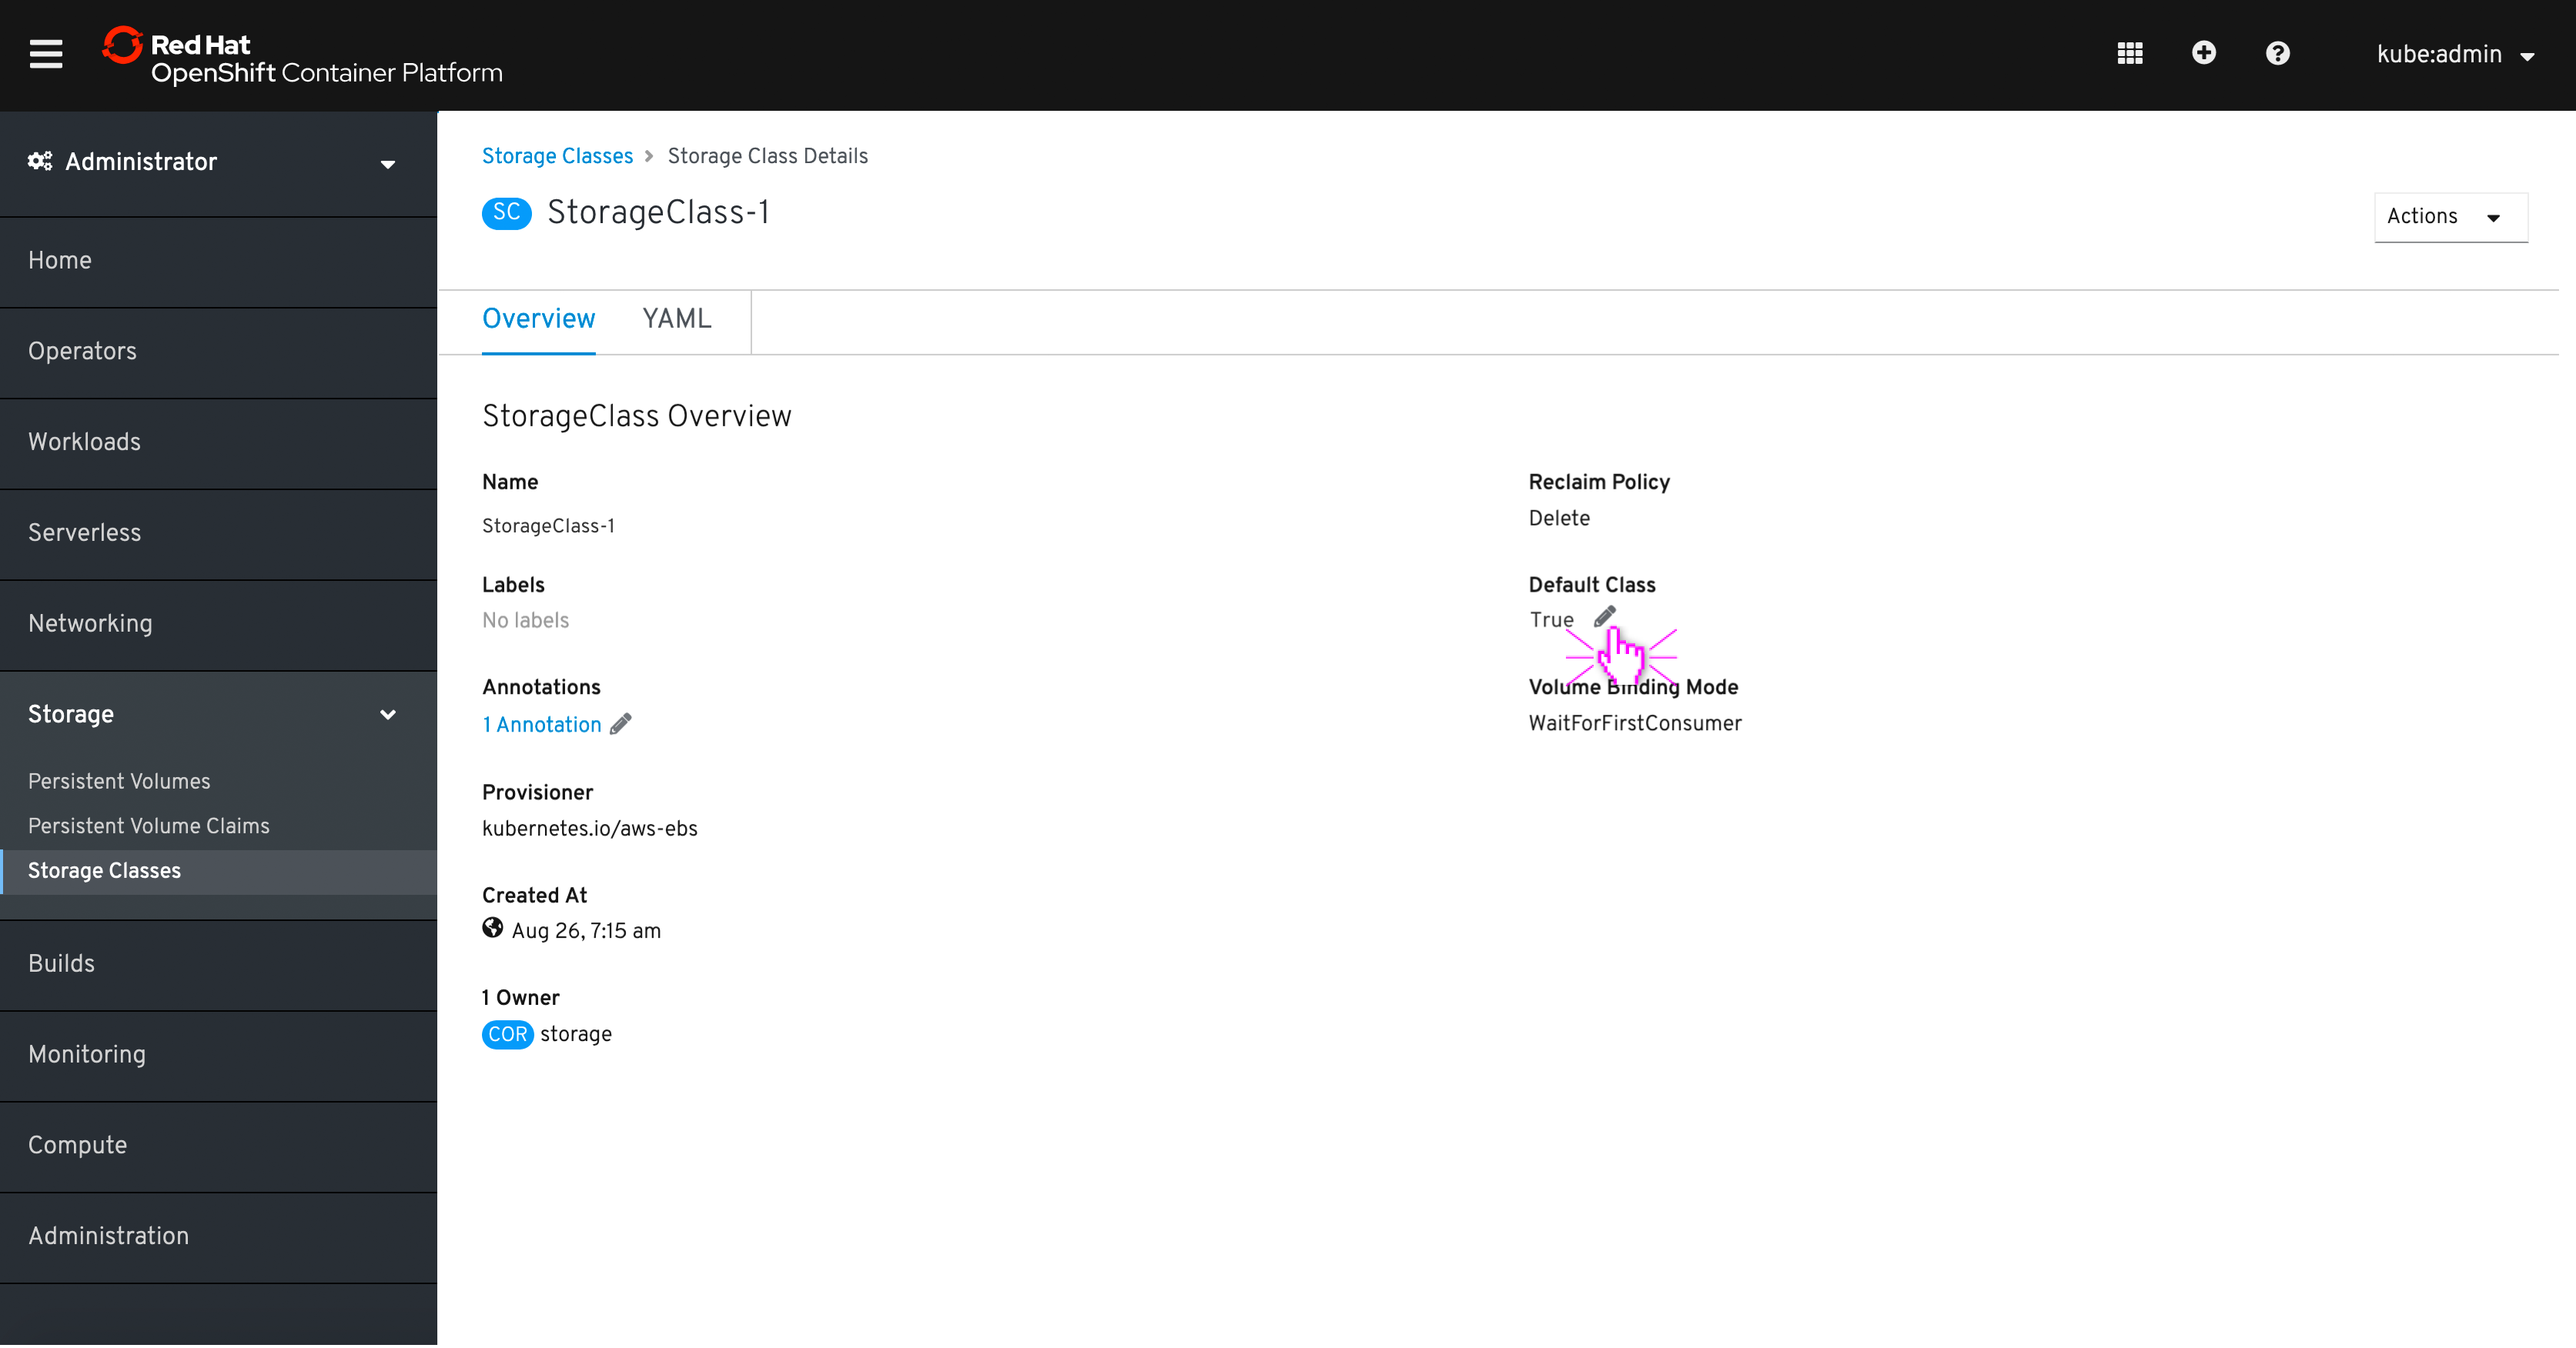
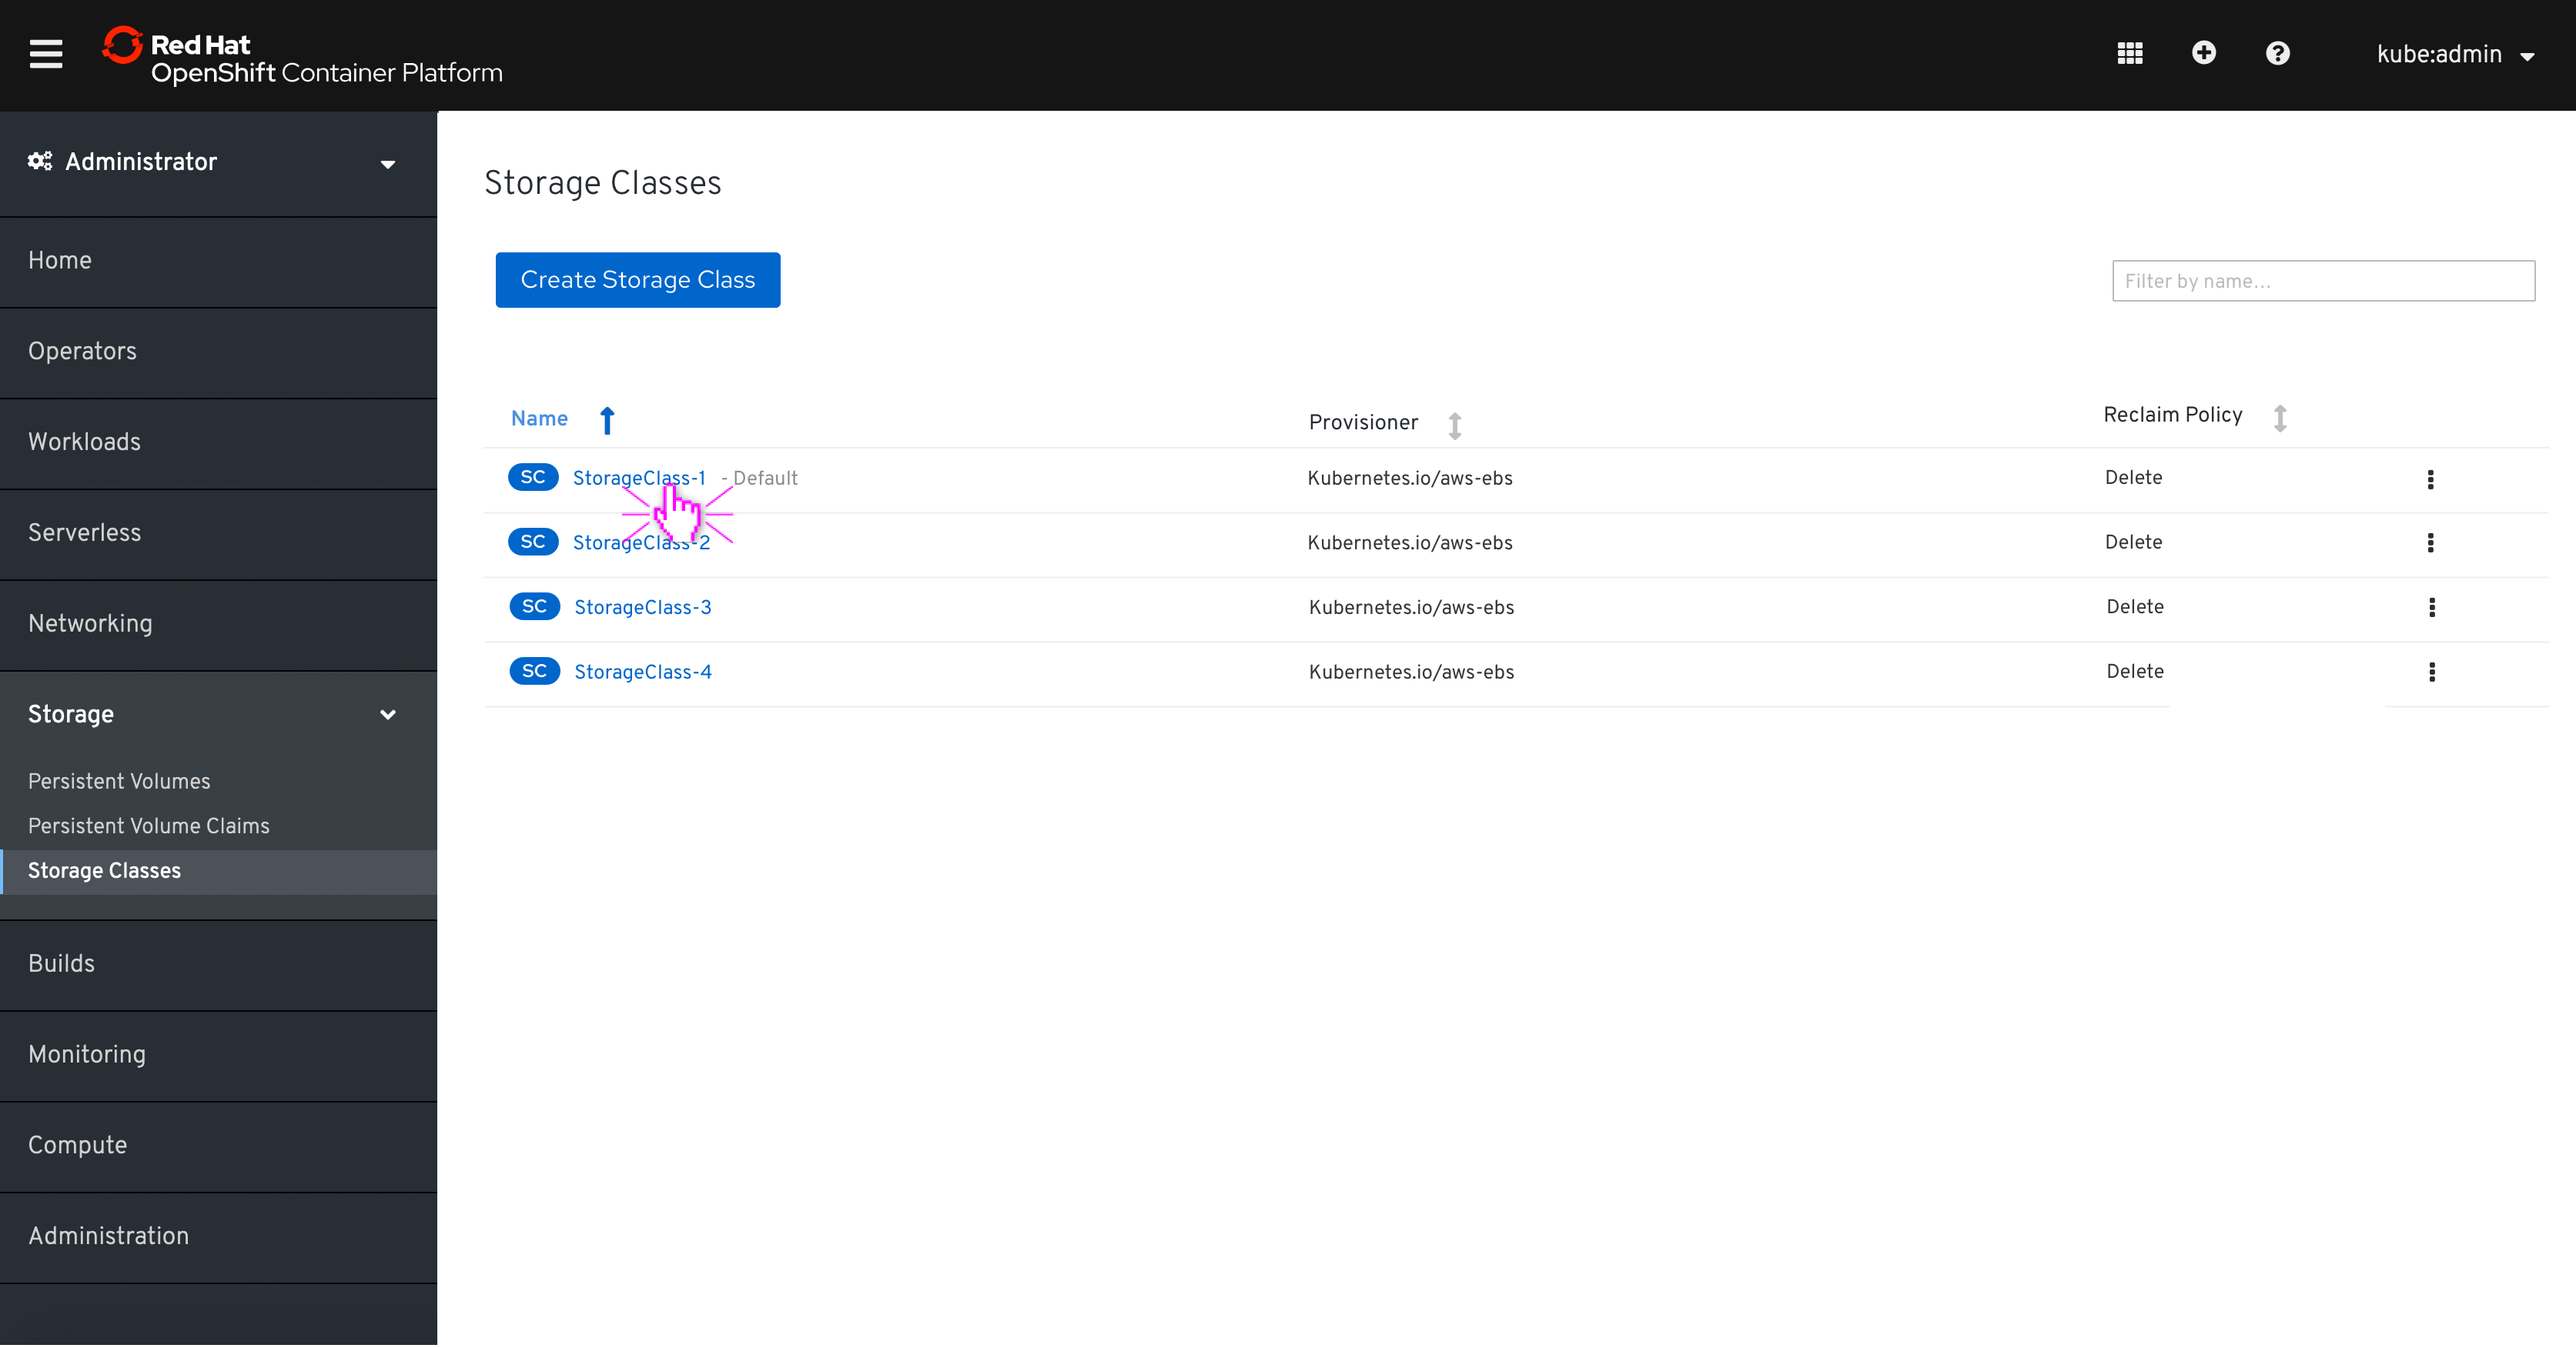
storage updates

diff --git a/web-console/4.0-designs/storage/set-default-storage-class.md b/web-console/4.0-designs/storage/set-default-storage-class.md
@@ -1,0 +1,80 @@
+# Storage
+
+## Create Storage Class
+
+![Storage class page with create button](img/create-storage-class.png)
+- Users with appropriate privileges can click to create a new Storage Class.
+
+![create storage class form](img/storage-class-form.png)
+- They are presented with a form that enables them to define the name, description, type of storage, reclaim policy, and provisioner for this storage class.
+
+![create storage class form](img/storage-class-parameters.png)
+- The `What should I enter here?` link should preferably direct the user to a list of parameters for the selected provisioner, but if that is not possible, linking to the Kubernetes documentation is acceptable.
+
+![create storage class form](img/storage-class-parameters-2.png)
+- Parameter rows can be added by clicking the `Add Parameter` button and removed with the minus button.
+- Rows are not draggable.
+
+![dynamic parameter fields](img/storage-class-generated-fields.png)
+- If it is feasible, selecting a provisioner should dynamically create fields for parameters rather than requiring that users specify them. In this case, additional parameters could still be added as needed.
+
+## Attach Storage
+
+![deployment detail page with add storage item](img/add-storage.png)
+-  Deployment pages will contain a new `Add Volume` option within the actions dropdown.
+
+![form for adding storage](img/add-storage-create.png)
+- The user can either add existing storage or choose to `Create Storage` from within the dropdown.
+
+![form for adding and creating storage](img/create-storage-form.png)
+- Selecting `Create Storage` exposes fields for Storage Class, Name, Access Mode, Size, and the label selector checkbox.
+- Only access modes that are compatible should be available to select in this form.
+
+## Set Default Storage Class
+- Users with appropriate privileges can set a Default Storage Class.
+- THERE ARE TWO WAY USER CAN SET A DEFAULT STORAGE CLASS:
+
+#### OPTION-1: Kebab menu option:
+
+1. Login to OpenShift > Admin > Storage (menu) > Storage classes (sub-menu)
+2. User can see list of ‘Storage classes' [list view] & there will be a label that indicates `default` storage class
+
+3. Click on the kebab menu > select `Set as Default Storage Class`
+
+![Set a Default Storage Class using kebab menu](img/stroage-opt1-start-1.png)
+
+4. Pop-up opens with confirmation message.
+5. User clicks on 'Confirm' button to make the change
+
+![Popup menu with confirmation](img/stroage-opt1-popup-confirm-1.png)
+
+6. Successfully modified ‘Default Storage class” [list view]
+![Modified default storage class](img/stroage-opt1-done.png)
+NOTE: If user clicks on the kebab menu of the existing 'default storage class' then the `Set as Default Storage Class` will be disabled
+![Popup menu with confirmation](img/stroage-opt1-start-1-disable.png
+  )
+
+#### OPTION-2: Change the ‘default’ option from storage class detail page:
+
+1. Login to OpenShift > Admin > Storage (menu) > Storage classes (sub-menu)
+2. Click on a storage class name link and view details of the storage
+
+![Set a Default Storage Class using edit ](img/stroage-opt2-start.png)
+
+3. SC details are shown as below
+4. Click on 'pencil icon' near the ‘default class status’
+
+![Set a Default Storage Class using pencil icon](img/stroage-opt2-details.png)
+
+5. Pop-up opens with a list of ‘SC’ and message shown below:
+![Popup menu to select a different Default Storage Class](img/stroage-opt2-popup-select.png)
+
+** Message:
+Current default storage class will be changed to false when you
+choose a different storage class from the list below.**
+
+6. User can choose any SC as a default storage class and click on ‘Save’ button to confirm the change.
+![Popup menu with confirmation](img/stroage-opt2-popup-confirm.png)
+
+7. Successfully modified ‘Default Storage class” [list view]
+![Set a Default Storage Class using kebab menu](img/stroage-opt2-done.png)
